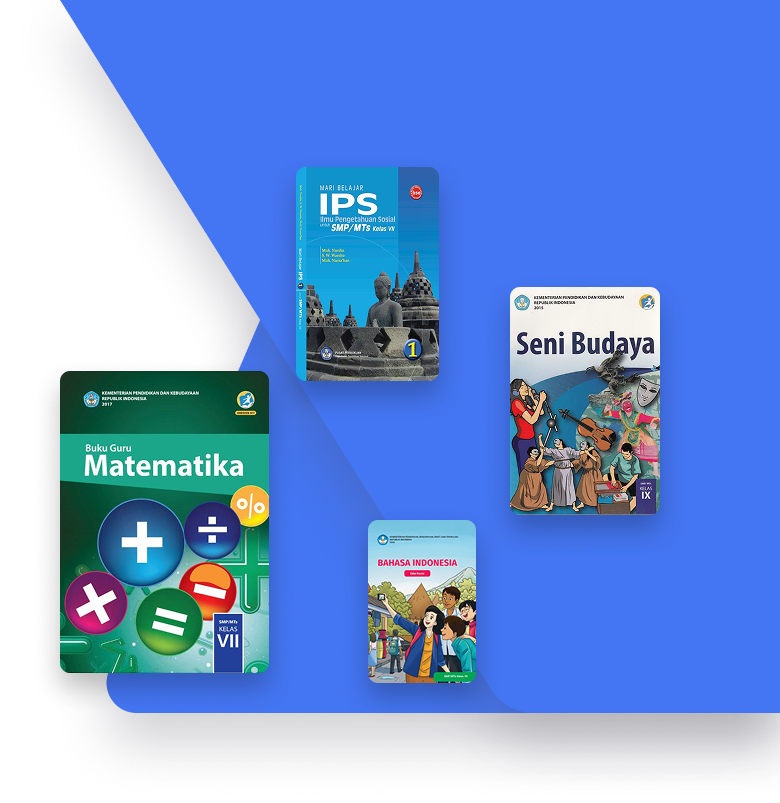
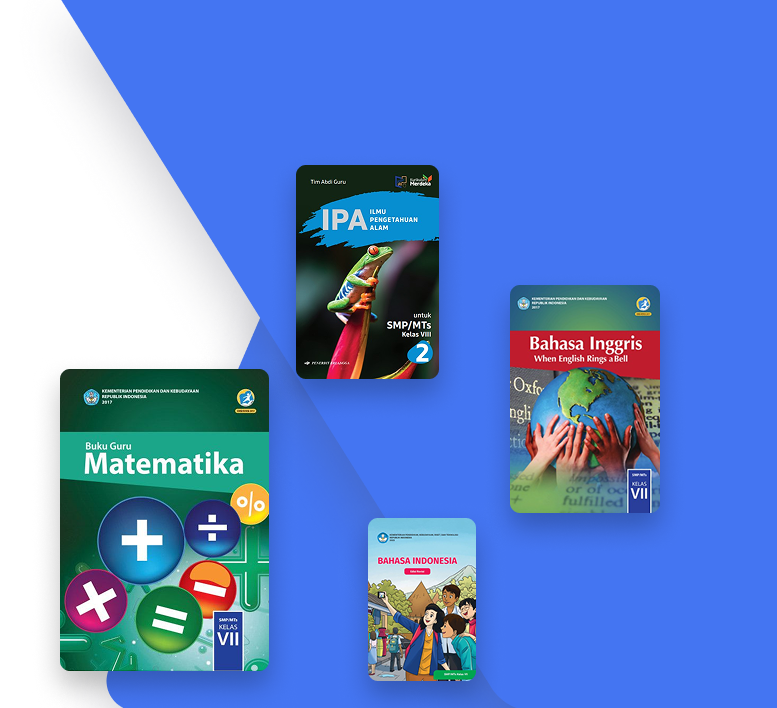
FIX: Responsive + Active link Role Siswa + Petugas, Landingpage media social + Hero Page

diff --git a/resources/views/livewire/components/landingpage/footer.blade.php b/resources/views/livewire/components/landingpage/footer.blade.php
@@ -8,7 +8,6 @@
     </button>
 </div>    
 
-
 <footer class="bg-white text-center">
     <div class="max-w-7xl mx-auto px-4 sm:px-6 py-8 sm:py-12">
         <div class="grid grid-cols-1 sm:grid-cols-2 lg:grid-cols-3 gap-6 sm:gap-8 text-black">
@@ -21,15 +20,15 @@
             <div class="text-center py-4">
                 <h4 class="font-bold text-base sm:text-lg mb-4">Social Media</h4>
                 <div class="flex justify-center space-x-4">
-                    <a href="#!" role="button">
+                    <a href="https://www.youtube.com/@smpalfalahassalam6618" role="button">
                         <!-- X -->
-                        <span class="[&>svg]:h-7 [&>svg]:w-7 [&>svg]:fill-black">
+                        <span class="[&>svg]:h-7 [&>svg]:w-9 [&>svg]:fill-black">
                             <svg xmlns="http://www.w3.org/2000/svg" fill="currentColor" viewBox="0 0 512 512">
-                                <path d="M389.2 48h70.6L305.6 224.2 487 464H345L233.7 318.6 106.5 464H35.8L200.7 275.5 26.8 48H172.4L272.9 180.9 389.2 48zM364.4 421.8h39.1L151.1 88h-42L364.4 421.8z" />
+                                <path d="M549.7 124.1c-6.3-23.7-24.8-42.3-48.3-48.6C458.8 64 288 64 288 64S117.2 64 74.6 75.5c-23.5 6.3-42 24.9-48.3 48.6-11.4 42.9-11.4 132.3-11.4 132.3s0 89.4 11.4 132.3c6.3 23.7 24.8 41.5 48.3 47.8C117.2 448 288 448 288 448s170.8 0 213.4-11.5c23.5-6.3 42-24.2 48.3-47.8 11.4-42.9 11.4-132.3 11.4-132.3s0-89.4-11.4-132.3zm-317.5 213.5V175.2l142.7 81.2-142.7 81.2z" />
                             </svg>
                         </span>
                     </a>
-                    <a href="#!" role="button">
+                    <a href="https://www.instagram.com/smpalfalahassalam?igsh=MXFpYmV6YTl3ZG54bQ%3D%3D&utm_source=qr" role="button">
                         <!-- Instagram -->
                         <span class="[&>svg]:h-7 [&>svg]:w-7 [&>svg]:fill-black">
                             <svg xmlns="http://www.w3.org/2000/svg" viewBox="0 0 448 512">
@@ -37,11 +36,19 @@
                             </svg>
                         </span>
                     </a>
-                    <a href="#!" role="button">
+                    <a href="https://www.facebook.com/share/14Dzwx1Uht5/" role="button">
                         <!-- Facebook -->
                         <span class="[&>svg]:h-7 [&>svg]:w-7 [&>svg]:fill-black">
                             <svg xmlns="http://www.w3.org/2000/svg" viewBox="0 0 320 512">
                                 <path d="M80 299.3V512H196V299.3h86.5l18-97.8H196V166.9c0-51.7 20.3-71.5 72.7-71.5c16.3 0 29.4 .4 37 1.2V7.9C291.4 4 256.4 0 236.2 0C129.3 0 80 50.5 80 159.4v42.1H14v97.8H80z" />
+                            </svg>
+                        </span>
+                    </a>
+                    <a href="https://www.tiktok.com/@smp.al.falah.assalam?_t=ZS-8xRF7pFrHNK&_r=1" role="button">
+                        <!-- Tiktok -->
+                        <span class="[&>svg]:h-7 [&>svg]:w-7 [&>svg]:fill-black">
+                            <svg xmlns="http://www.w3.org/2000/svg" viewBox="0 0 320 512">
+                                <path d="M448 209.9a210.1 210.1 0 0 1 -122.8-39.3V349.4A162.6 162.6 0 1 1 185 188.3V278.2a74.6 74.6 0 1 0 52.2 71.2V0l88 0a121.2 121.2 0 0 0 1.9 22.2h0A122.2 122.2 0 0 0 381 102.4a121.4 121.4 0 0 0 67 20.1z" />
                             </svg>
                         </span>
                     </a>

diff --git a/resources/views/livewire/layouts/app.blade.php b/resources/views/livewire/layouts/app.blade.php
@@ -3,7 +3,7 @@
 <head>
   <meta charset="utf-8">
   <meta name="viewport" content="width=device-width, initial-scale=1.0">
-  <link rel="icon" type="image/x-icon" href="{{ asset("logo/logo-alfalah.png") }}">
+  <link rel="icon" type="image/x-icon" href="{{ asset("foto/LOGO2.png") }}">
 
   <title>{{ $title ?? 'Perpustakaan Al-Falah' }}</title>
   @vite('resources/css/app.css')
@@ -22,14 +22,12 @@
 
 
   {{--    Navbar --}}
-  <header class="flex flex-wrap sm:justify-start sm:flex-nowrap w-full bg-white text-sm py-3 mb-10">
-    <nav
-      class="fixed top-0 left-0 right-0 z-50 bg-white w-full mx-auto px-4 py-4 flex flex-wrap items-center justify-between shadow">
+  <header class="fixed top-0 left-0 z-50 w-full flex flex-wrap sm:justify-start sm:flex-nowrap bg-white text-sm py-3 shadow-md">
+  <nav class="max-w-[85rem] w-full mx-auto px-4 flex flex-wrap basis-full items-center justify-between">
       <div class="flex space-x-1.5">
-        <img src="{{ asset("logo/logo-alfalah.png") }}" alt="logo" class="hidden sm:block ">
+        <img src="{{ asset('foto/LOGO1.png') }}" alt="logo" style="width: 180px; height: auto;" class="hidden sm:block">
         <a class="sm:order-1 flex-none text-xl font-semibold focus:outline-hidden focus:opacity-80 "
-           href="{{ route('book.index') }}" wire:navigate>SMP
-          Alfalah Assalam</a>
+           href="{{ route('book.index') }}" wire:navigate></a>
       </div>
 
       <div class="sm:order-3 flex items-center gap-x-2">
@@ -56,11 +54,11 @@
         @if(!\Illuminate\Support\Facades\Auth::check())
           <a type="button" href="{{ route('login') }}"
              class="hidden md:block py-2 px-3 items-center gap-x-2 text-sm font-medium rounded-lg border border-black bg-white text-black hover:bg-white focus:outline-hidden focus:bg-white focus:outline-hidden focus:bg-white disabled:opacity-50 disabled:pointer-events-none">
-            Login
+            Masuk
           </a>
           <a type="button" href="{{ route('register') }}"
              class="hidden md:block py-2 px-3 items-center gap-x-2 text-sm font-medium rounded-lg border border-black bg-white text-black hover:bg-white focus:outline-hidden focus:bg-white focus:outline-hidden focus:bg-white disabled:opacity-50 disabled:pointer-events-none">
-            Sign Up
+            Daftar
           </a>
         @endif
       </div>
@@ -70,7 +68,7 @@
         <div class="flex flex-col gap-5 mt-5 sm:flex-row sm:items-center sm:mt-0 sm:ps-5">
           @if(!\Illuminate\Support\Facades\Auth::check())
             <a
-              class="nav-link font-medium px-2 text-gray-600 hover:text-gray-400 focus:outline-hidden focus:text-gray-400 "
+              class="nav-link font-medium px-2 text-gray-600 hover:text-gray-400 focus:outline-hidden focus:text-gray-400"
               href="#fitur">Fitur</a>
             <a
               class="nav-link font-medium px-2 text-gray-600 hover:text-gray-400 focus:outline-hidden focus:text-gray-400"

diff --git a/resources/views/livewire/layouts/main-app.blade.php b/resources/views/livewire/layouts/main-app.blade.php
@@ -3,7 +3,7 @@
 <head>
   <meta charset="utf-8">
   <meta name="viewport" content="width=device-width, initial-scale=1.0">
-  <link rel="icon" type="image/x-icon" href="{{ asset("logo/logo-alfalah.png") }}">
+  <link rel="icon" type="image/x-icon" href="{{ asset("foto/LOGO2.png") }}">
 
   <title>{{ $title ?? 'Perpustakaan Al-Falah' }}</title>
   @vite('resources/css/app.css')
@@ -21,10 +21,9 @@
   <header class="flex flex-wrap sm:justify-start sm:flex-nowrap w-full bg-white text-sm py-3 mb-10">
     <nav class="max-w-[85rem] w-full mx-auto px-4 flex flex-wrap basis-full items-center justify-between">
       <div class="flex space-x-1.5">
-        <img src="{{ asset("logo/logo-alfalah.png") }}" alt="logo" class="hidden sm:block ">
+        <img src="{{ asset('foto/LOGO1.png') }}" alt="logo" style="width: 180px; height: auto;" class="hidden sm:block">
         <a class="sm:order-1 flex-none text-xl font-semibold focus:outline-hidden focus:opacity-80 "
-           href="{{ route('book.index') }}">SMP
-          Alfalah Assalam</a>
+           href="{{ route('book.index') }}" wire:navigate></a>
       </div>
 
       <div class="sm:order-3 flex items-center gap-x-2">
@@ -110,9 +109,9 @@
           {{--          <a--}}
           {{--            class="font-medium text-gray-600 hover:text-gray-400 focus:outline-hidden focus:text-gray-400 "--}}
           {{--            href="#">Dashboard</a>--}}
-          <a class="font-medium text-gray-600 hover:text-gray-400 focus:outline-hidden focus:text-gray-400"
+          <a class="font-medium {{ request()->routeIs('book.*') ? 'text-blue-600 font-bold' : 'text-gray-600 hover:text-gray-400' }}"
              href="{{ route('book.index') }}">Buku</a>
-          <a class="font-medium text-gray-600 hover:text-gray-400 focus:outline-hidden focus:text-gray-400"
+          <a class="font-medium {{ request()->routeIs('donasi.*') ? 'text-blue-600 font-bold' : 'text-gray-600 hover:text-gray-400' }}"
              href="{{ route('donasi.store') }}">Donasi</a>
 
           <div class="hs-dropdown relative inline-flex">

diff --git a/resources/views/livewire/components/landingpage/features.blade.php b/resources/views/livewire/components/landingpage/features.blade.php
@@ -27,7 +27,7 @@
                 <div class="flex justify-center mb-6">
                     <div class="bg-blue-600 rounded-xl p-3 sm:p-4 shadow-lg">
                         <svg class="w-10 h-10 sm:w-12 sm:h-12 text-white" fill="none" stroke="currentColor" viewBox="0 0 24 24">
-                            <path stroke-linecap="round" stroke-linejoin="round" stroke-width="2" d="M21 21l-6-6m2-5a7 7 0 11-14 0 7 7 0 0114 0z"></path>
+                            <path stroke-linecap="round" stroke-linejoin="round" stroke-width="2" d="M12 20.25c4.97 0 9-3.694 9-8.25s-4.03-8.25-9-8.25S3 7.444 3 12c0 2.104.859 4.023 2.273 5.48.432.447.74 1.04.586 1.641a4.483 4.483 0 0 1-.923 1.785A5.969 5.969 0 0 0 6 21c1.282 0 2.47-.402 3.445-1.087.81.22 1.668.337 2.555.337Z"></path>
                         </svg>
                     </div>
                 </div>
@@ -40,7 +40,7 @@
                 <div class="flex justify-center mb-6">
                     <div class="bg-blue-600 rounded-xl p-3 sm:p-4 shadow-lg">
                         <svg class="w-10 h-10 sm:w-12 sm:h-12 text-white" fill="none" stroke="currentColor" viewBox="0 0 24 24">
-                            <path stroke-linecap="round" stroke-linejoin="round" stroke-width="2" d="M21 21l-6-6m2-5a7 7 0 11-14 0 7 7 0 0114 0z"></path>
+                            <path stroke-linecap="round" stroke-linejoin="round" stroke-width="2" d="M21 8.25c0-2.485-2.099-4.5-4.688-4.5-1.935 0-3.597 1.126-4.312 2.733-.715-1.607-2.377-2.733-4.313-2.733C5.1 3.75 3 5.765 3 8.25c0 7.22 9 12 9 12s9-4.78 9-12Z"></path>
                         </svg>
                     </div>
                 </div>

diff --git a/resources/views/livewire/components/landingpage/hero.blade.php b/resources/views/livewire/components/landingpage/hero.blade.php
@@ -14,7 +14,7 @@
           Kembangkan perjalanan literasi anda dengan menggunakan website terbaru SMP
           Alfalah Assalam. Sekaligus memperkenalkan kepada anda pengalaman menggunakan website perpustakaan disertai
           dengan berbagai fitur-fitur pendukung aktivitas perpustakaan, salah satunya mempermudah pencarian buku favorit
-          anda✨
+          anda
         </p>
 
         @if(\Illuminate\Support\Facades\Auth::check())

diff --git a/resources/views/livewire/layouts/auth-app.blade.php b/resources/views/livewire/layouts/auth-app.blade.php
@@ -3,7 +3,7 @@
 <head>
   <meta charset="utf-8">
   <meta name="viewport" content="width=device-width, initial-scale=1.0">
-  <link rel="icon" type="image/x-icon" href="{{ asset("logo/logo-alfalah.png") }}">
+  <link rel="icon" type="image/x-icon" href="{{ asset("foto/LOGO2.png") }}">
 
   <title>{{ $title ?? 'Perpustakaan Al-Falah' }}</title>
   @vite('resources/css/app.css')

diff --git a/resources/views/livewire/app/book/book.blade.php b/resources/views/livewire/app/book/book.blade.php
@@ -42,7 +42,7 @@
 
 
   {{--  List Buku--}}
-  <div class="grid grid-cols-2 md:grid-cols-4 lg:grid-cols-6 gap-3">
+  <div class="grid grid-cols-1 sm:grid-cols-1 md:grid-cols-3 lg:grid-cols-5 gap-3">
     @foreach($datas as $data)
 
       @if($datas->count() == 0)

diff --git a/resources/views/livewire/landing-page.blade.php b/resources/views/livewire/landing-page.blade.php
@@ -1,4 +1,4 @@
-<div class="min-h-screen">
+<div class="min-h-screen pt-8">
         @include('livewire.components.landingpage.hero')
         @include('livewire.components.landingpage.features')
         @include('livewire.components.landingpage.gallery')
